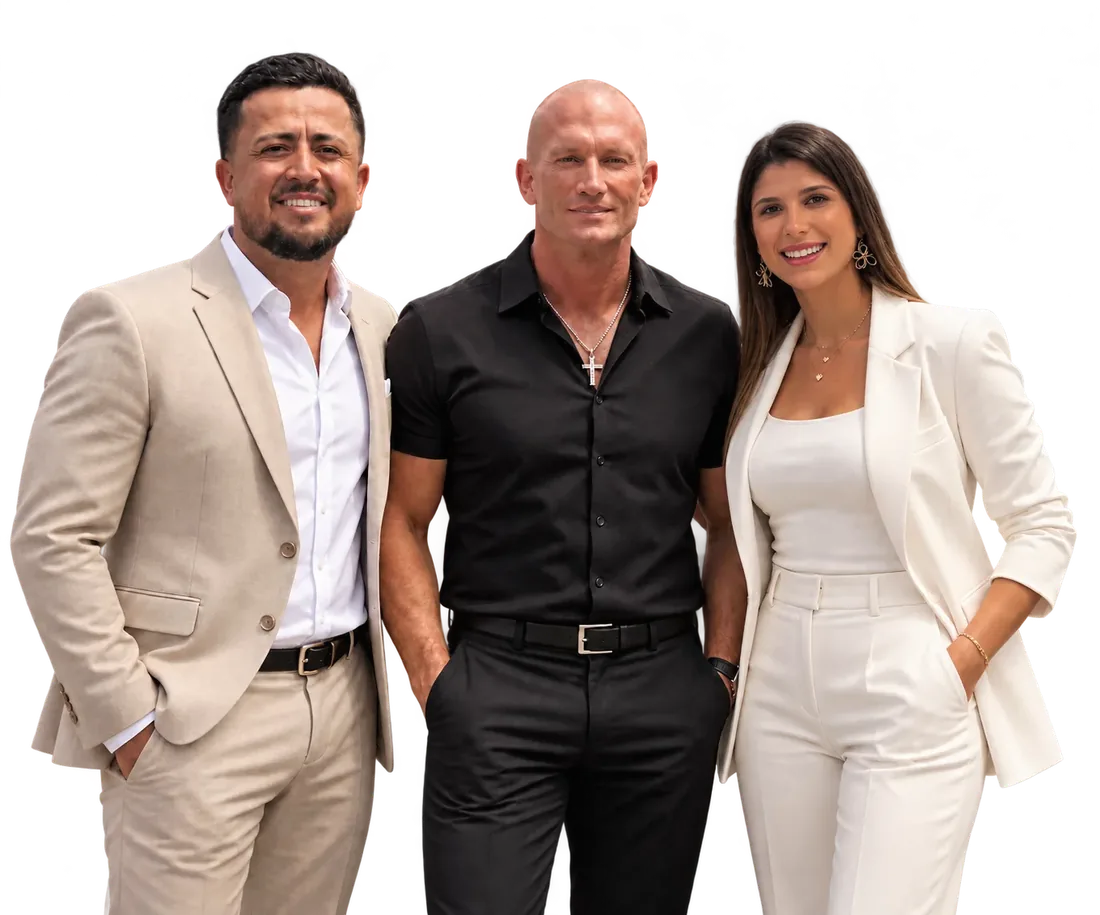
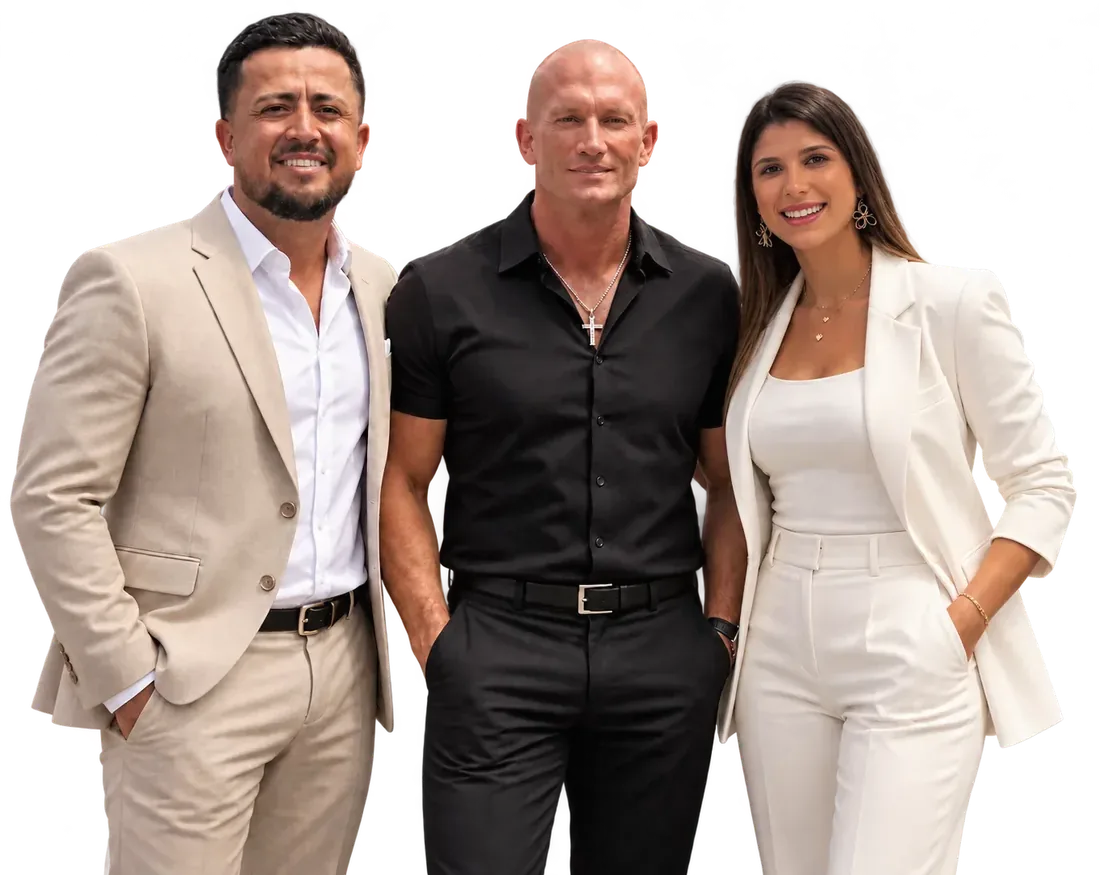
Hero desktop: 60/40 text-photo split, photo centered against text
Claude-Session: https://claude.ai/code/session_01VPPz1Pfc6m98NEVubc4Jgh

diff --git a/index.html b/index.html
@@ -324,9 +324,9 @@ footer .logo-img {
 
   .hero-grid {
     display: grid;
-    grid-template-columns: minmax(0, 1.08fr) minmax(0, 0.92fr);
+    grid-template-columns: minmax(0, 3fr) minmax(0, 2fr);
     align-items: center;
-    gap: 32px;
+    gap: 28px;
     margin-bottom: 40px;
   }
 
@@ -335,7 +335,7 @@ footer .logo-img {
   }
 
   .hero-content h1 {
-    font-size: clamp(38px, 4.4vw, 58px);
+    font-size: clamp(34px, 3.6vw, 50px);
     margin-left: 0;
   }
 
@@ -352,7 +352,7 @@ footer .logo-img {
     width: 100%;
     max-width: none;
     margin: 0;
-    align-self: end;
+    align-self: center;
   }
 
   .hero-people img {
@@ -1184,7 +1184,7 @@ footer a {
       </div>
       <div class="hero-people">
         <picture>
-          <source media="(min-width: 901px)" srcset="img/speakers-desktop.webp" width="1100" height="915">
+          <source media="(min-width: 901px)" srcset="img/speakers-desktop.webp" width="1100" height="875">
           <img src="img/speakers-mobile.webp" width="860" height="492" alt="Hugo, Andy Elliott y Mónica, speakers principales de One Empire" fetchpriority="high">
         </picture>
       </div>
